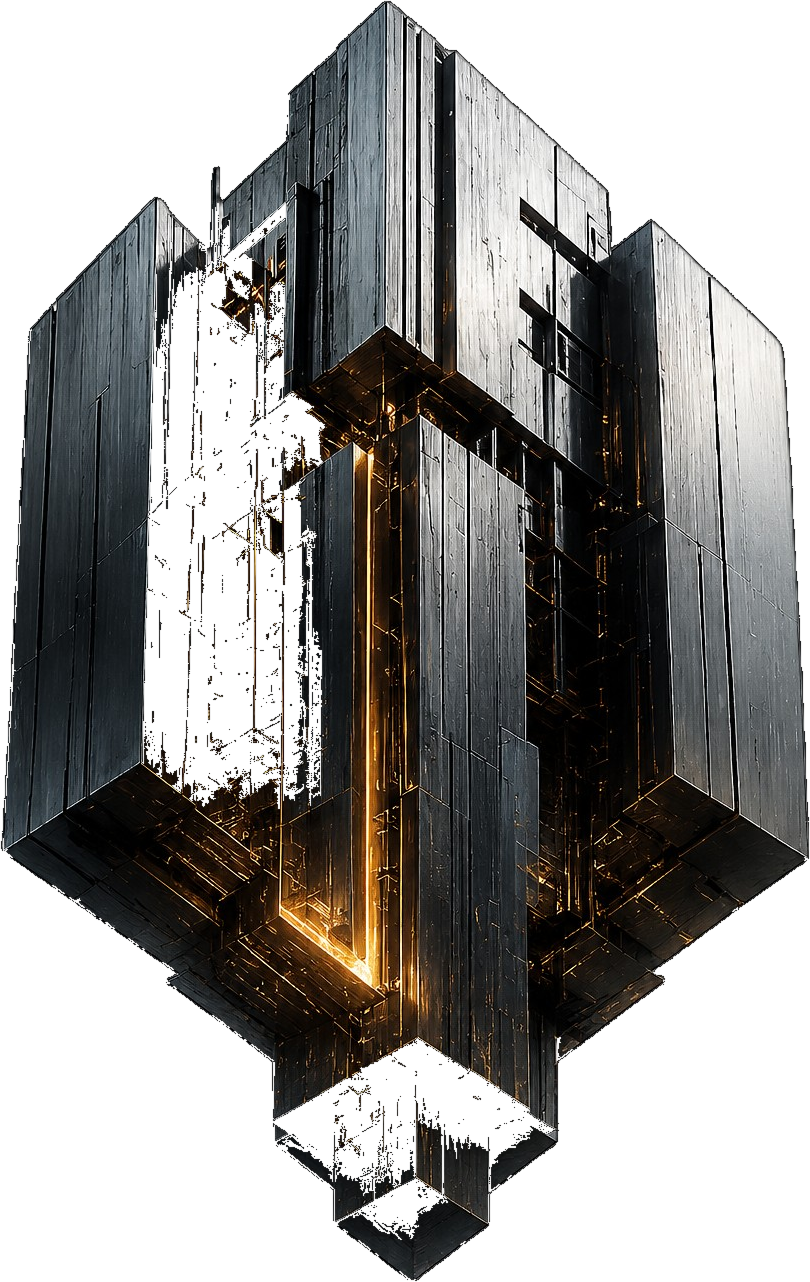
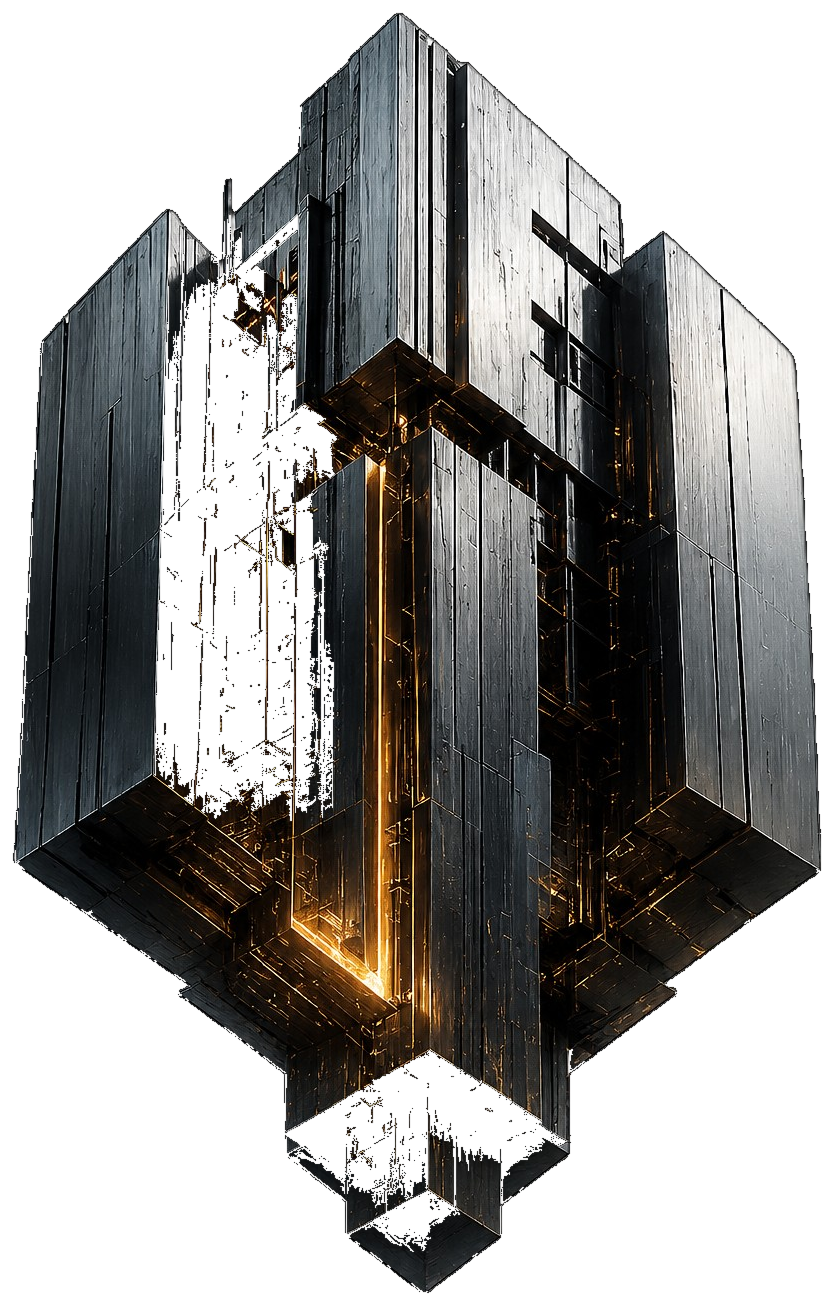
Fase 6A last updates and docs

Changed region(s): [[0.0, 0.0, 1.0, 0.9984]]

diff --git a/app/documentazione/page.tsx b/app/documentazione/page.tsx
@@ -2,7 +2,7 @@ import type { Metadata } from "next";
 import { LegalPageLayout, LegalSection, LegalList } from "@/components/legal/LegalPageLayout";
 
 export const metadata: Metadata = {
-  title: "Documentazione — Trading Sentinel",
+  title: "Manuali Utente — Trading Sentinel",
   description: "Manuale utente di Trading Sentinel Pro.",
 };
 
@@ -16,7 +16,7 @@ function Command({ children }: { children: React.ReactNode }) {
 
 export default function DocumentationPage() {
   return (
-    <LegalPageLayout title="Documentazione" lastUpdated="22 luglio 2026">
+    <LegalPageLayout title="Manuali Utente" lastUpdated="22 luglio 2026">
       <LegalSection title="Manuale utente · Versione Pro">
         <p>Trading Sentinel Pro è la versione avanzata del sistema di monitoraggio Telegram per XAUUSD. Mantiene il flusso operativo del Basic e aggiunge maggiore capacità di gestione, configurazione e controllo.</p>
         <p>Il Pro supporta fino a 5 trade simultanei, livelli personalizzabili per ogni posizione, status individuali, storico delle notifiche automatiche e report operativo.</p>

diff --git a/app/globals.css b/app/globals.css
@@ -55,9 +55,9 @@
     z-index: 2;
     pointer-events: none;
     background:
-      linear-gradient(180deg, rgba(128, 134, 142, 0.22), rgba(82, 88, 96, 0.17) 48%, rgba(42, 48, 56, 0.20)),
-      linear-gradient(180deg, rgba(166, 171, 178, 0.10), rgba(92, 98, 106, 0.08) 52%, rgba(32, 37, 44, 0.12)),
-      radial-gradient(70% 60% at 50% 42%, rgba(140, 146, 154, 0.08), transparent 70%);
+      linear-gradient(180deg, rgba(128, 134, 142, 0.29), rgba(82, 88, 96, 0.23) 48%, rgba(42, 48, 56, 0.27)),
+      linear-gradient(180deg, rgba(166, 171, 178, 0.14), rgba(92, 98, 106, 0.12) 52%, rgba(32, 37, 44, 0.16)),
+      radial-gradient(70% 60% at 50% 42%, rgba(140, 146, 154, 0.11), transparent 70%);
     mix-blend-mode: normal;
   }
 

diff --git a/components/background/SceneCanvas.tsx b/components/background/SceneCanvas.tsx
@@ -32,7 +32,7 @@ const LAYERS: Layer[] = [
   { key: "foregroundBottom", depth: 0.44, width: 0.15, x: 0.22, y: 0.84, driftX: 9, driftY: 4, rotation: 0.004 },
   { key: "foregroundLower", depth: 0.50, width: 0.10, x: 0.82, y: 0.86, driftX: 11, driftY: 4, rotation: -0.004 },
   // The core is larger again, but remains embedded in the environment.
-  { key: "hero", depth: 1, width: 0.36, x: 0.76, y: 0.39, driftX: 15, driftY: 6, rotation: 0.002 },
+  { key: "hero", depth: 1, width: 0.364, x: 0.76, y: 0.39, driftX: 15, driftY: 6, rotation: 0.002 },
 ];
 
 function loadImage(src: string) {

diff --git a/components/layout/Footer.tsx b/components/layout/Footer.tsx
@@ -6,7 +6,7 @@ const LEGAL_LINKS = [
   { label: "Privacy Policy", href: "/privacy-policy" },
   { label: "Risk Disclosure", href: "/risk-disclosure" },
   { label: "FAQ Tecniche", href: "/faq-tecniche" },
-  { label: "Documentazione", href: "/documentazione" },
+  { label: "Manuali Utente", href: "/documentazione" },
 ];
 
 export function Footer() {
